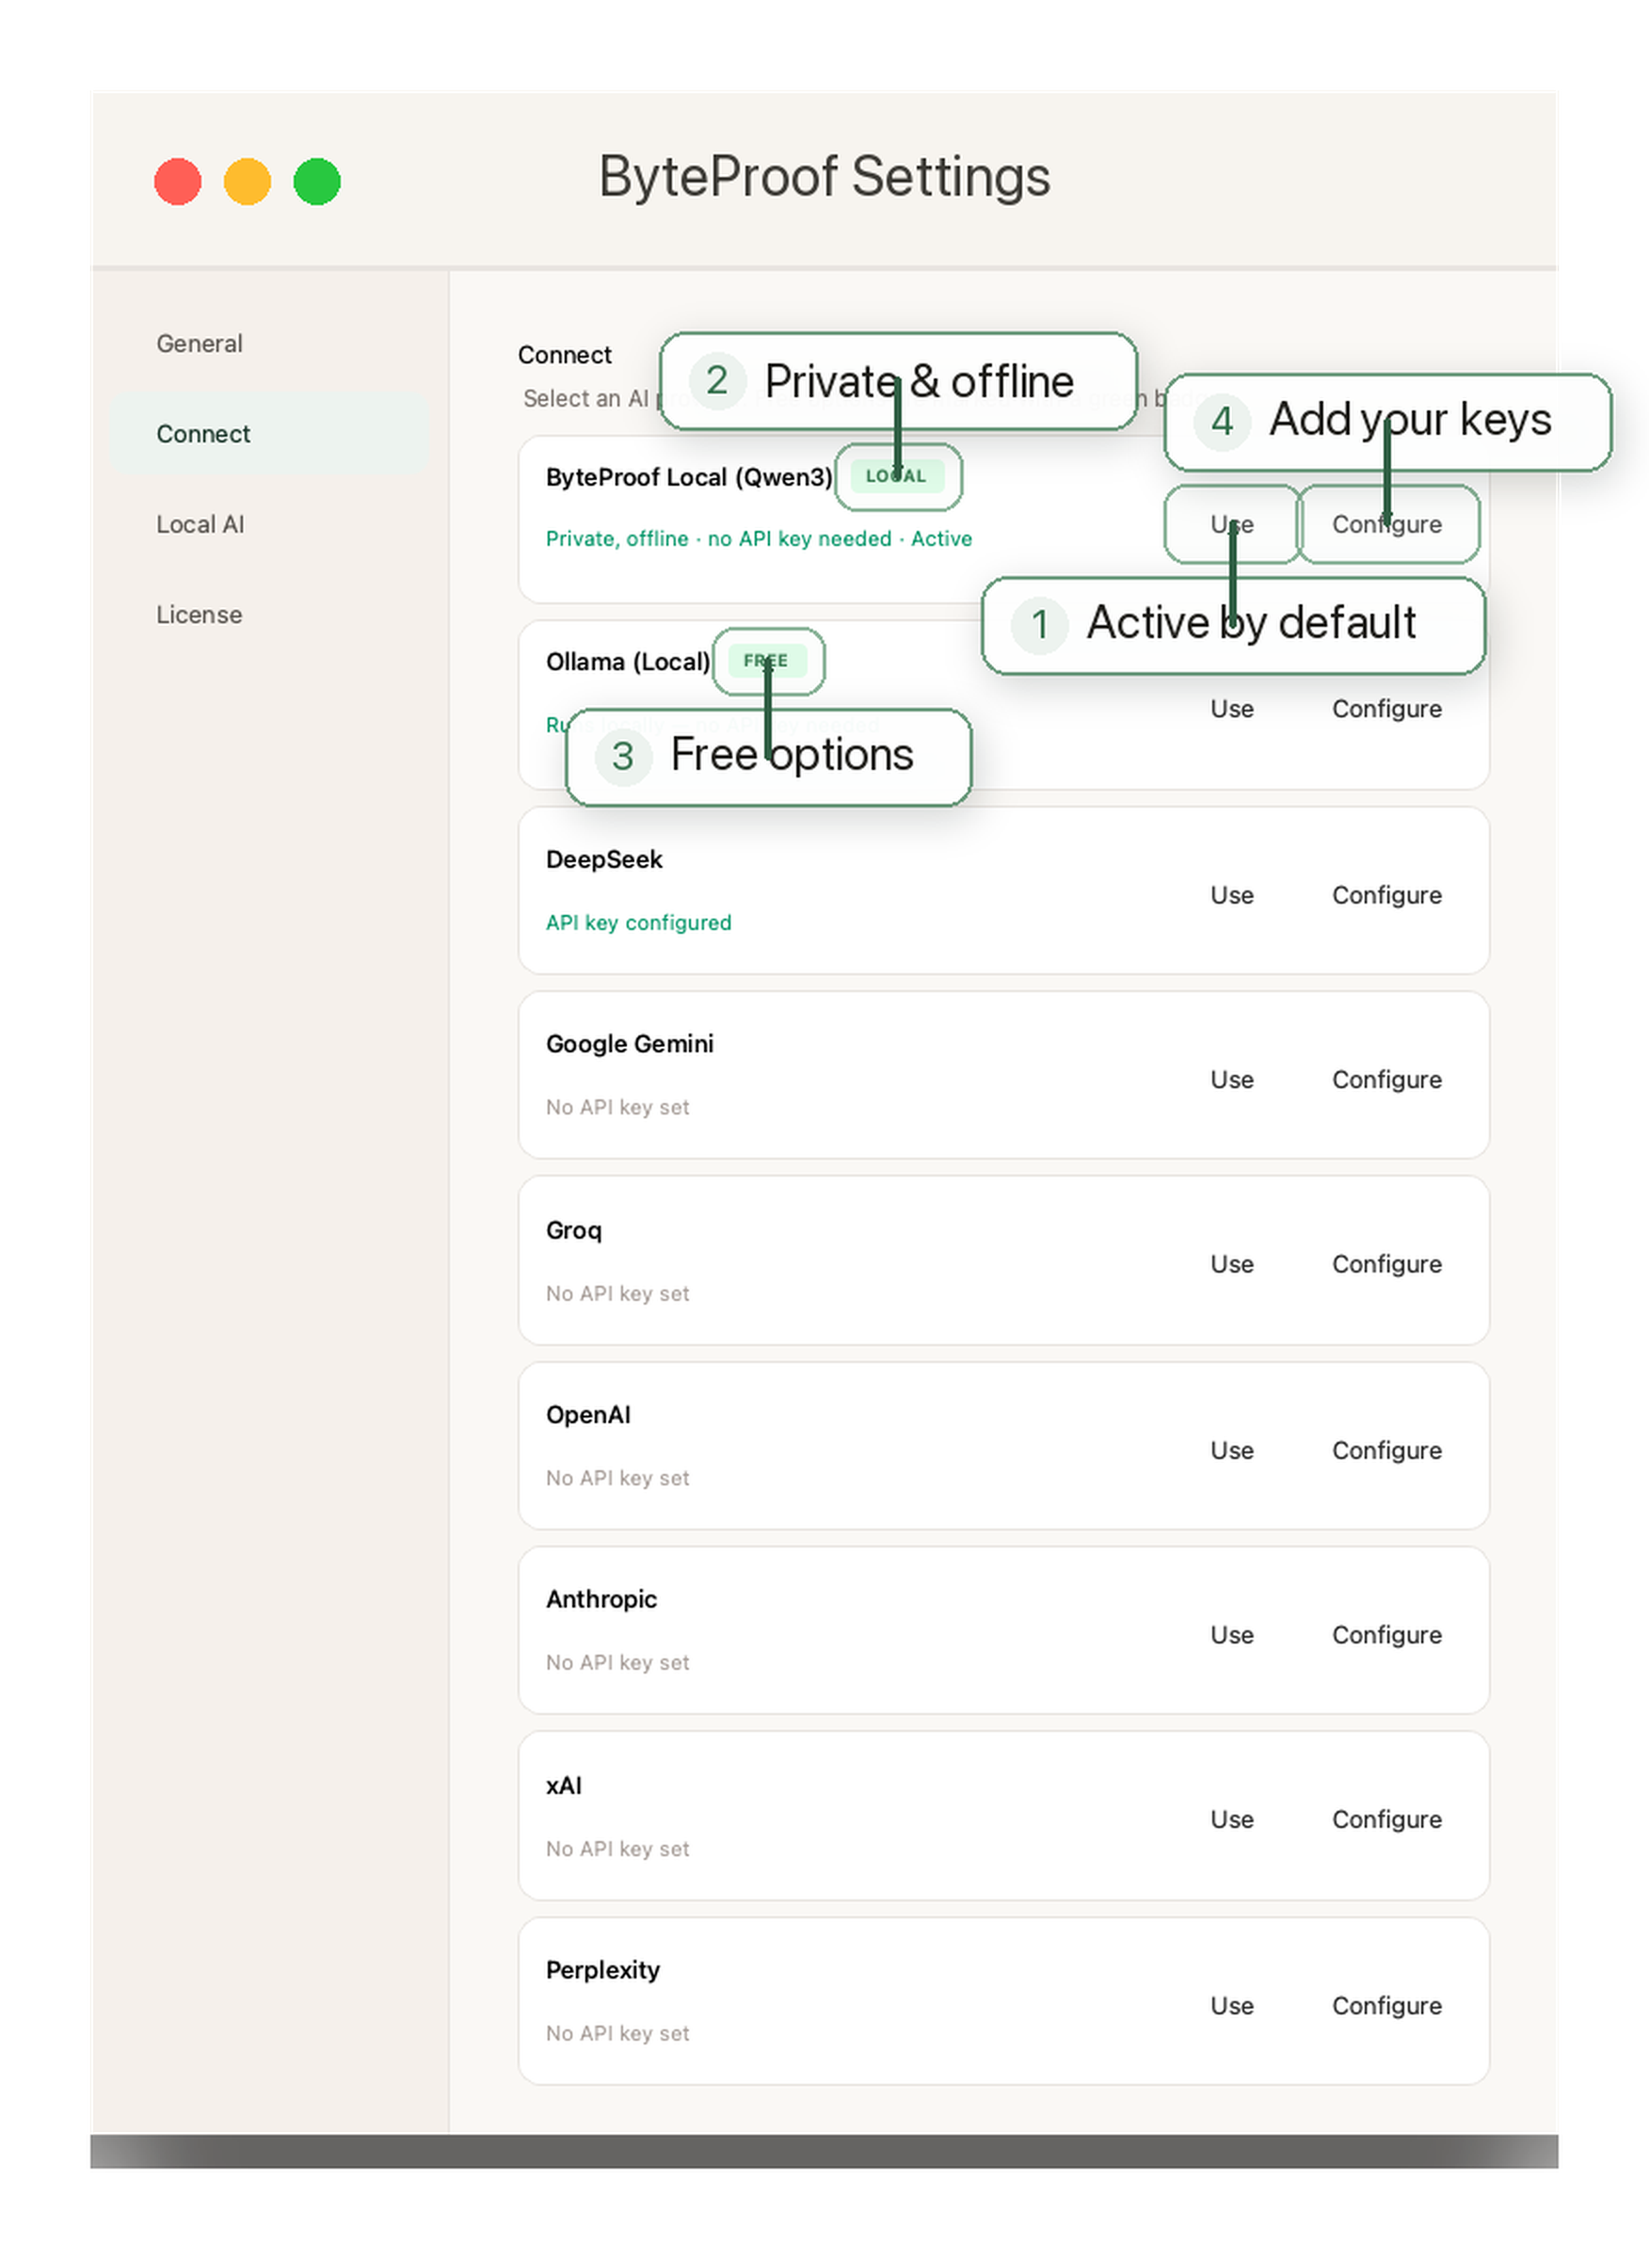
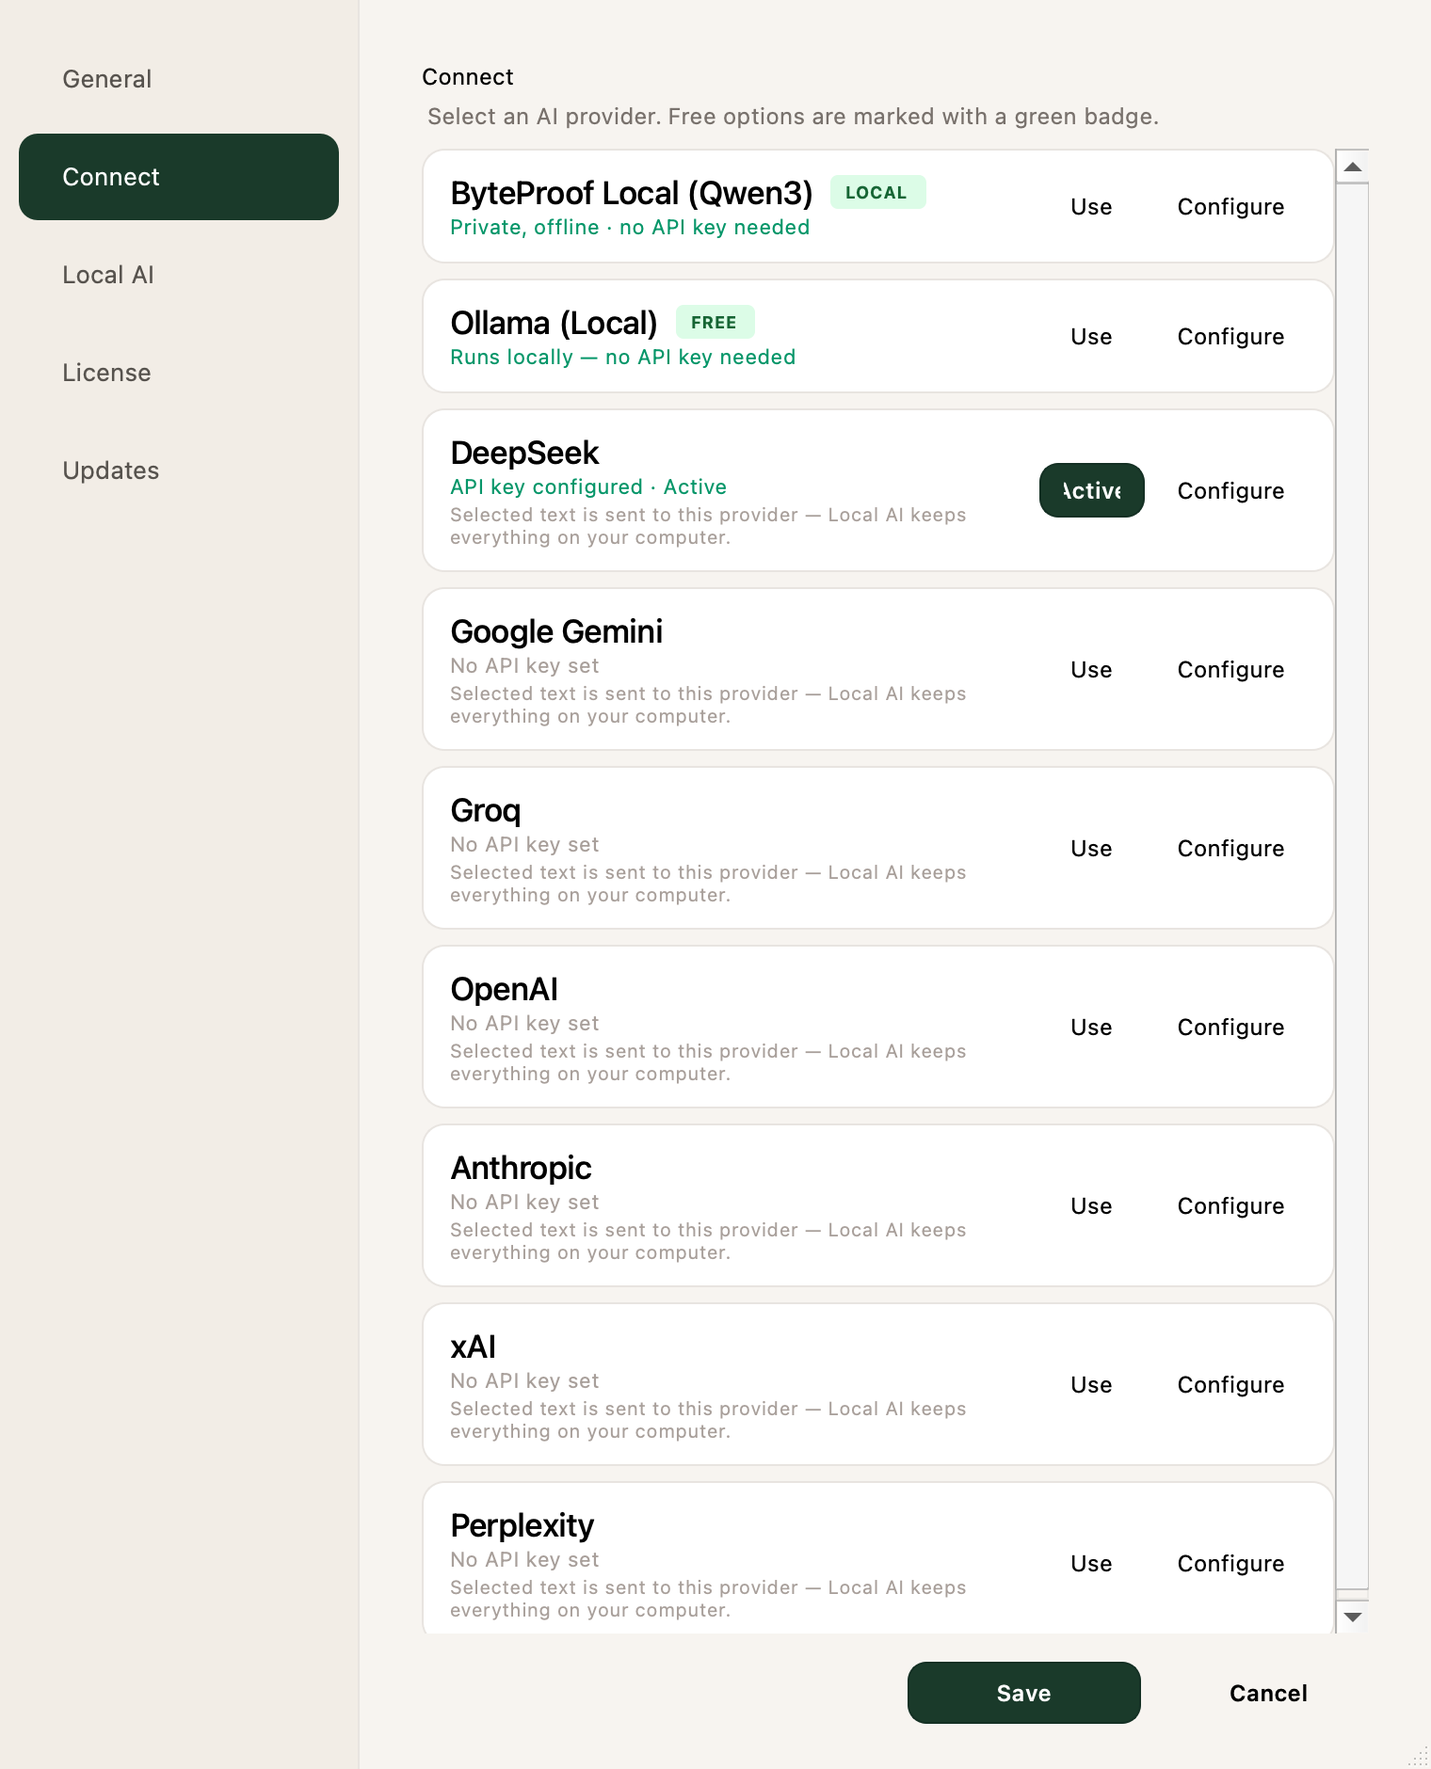
Refresh high-resolution settings screenshots and captions

diff --git a/byteproof.html b/byteproof.html
@@ -391,16 +391,16 @@
                     <figure class="shot reveal">
                         <img class="lightbox-img" src="assets/byteproof/byteproof-app-settings-connect.png"
                              data-full="assets/byteproof/byteproof-app-settings-connect.png"
-                             alt="ByteProof settings showing the Connect tab with available AI providers and free badges"
-                             loading="lazy" width="1752" height="2400">
-                        <figcaption class="shot-caption"><strong>Local AI is active by default.</strong> Free options are marked, and cloud providers can be configured with your own keys. Click to enlarge.</figcaption>
+                             alt="ByteProof settings showing the Connect tab with local and cloud AI providers"
+                             loading="lazy" width="1520" height="1880">
+                        <figcaption class="shot-caption"><strong>Choose your AI, or keep it private.</strong> Local AI runs offline by default; connect your own cloud keys only if you prefer. Click to enlarge.</figcaption>
                     </figure>
                     <figure class="shot reveal">
                         <img class="lightbox-img" src="assets/byteproof/byteproof-app-settings-local.png"
                              data-full="assets/byteproof/byteproof-app-settings-local.png"
-                             alt="ByteProof settings showing the Local AI tab with Qwen3 model options and download controls"
-                             loading="lazy" width="1752" height="2420">
-                        <figcaption class="shot-caption"><strong>Private local AI.</strong> Qwen3 models are downloaded once, verified, and run offline — no account or API key. Click to enlarge.</figcaption>
+                             alt="ByteProof settings showing the Local AI tab with model options and download controls"
+                             loading="lazy" width="1520" height="1880">
+                        <figcaption class="shot-caption"><strong>Private local AI.</strong> Models are downloaded once, verified, and run offline — pick the size that fits your RAM, no account or API key. Click to enlarge.</figcaption>
                     </figure>
                 </div>
             </div>
